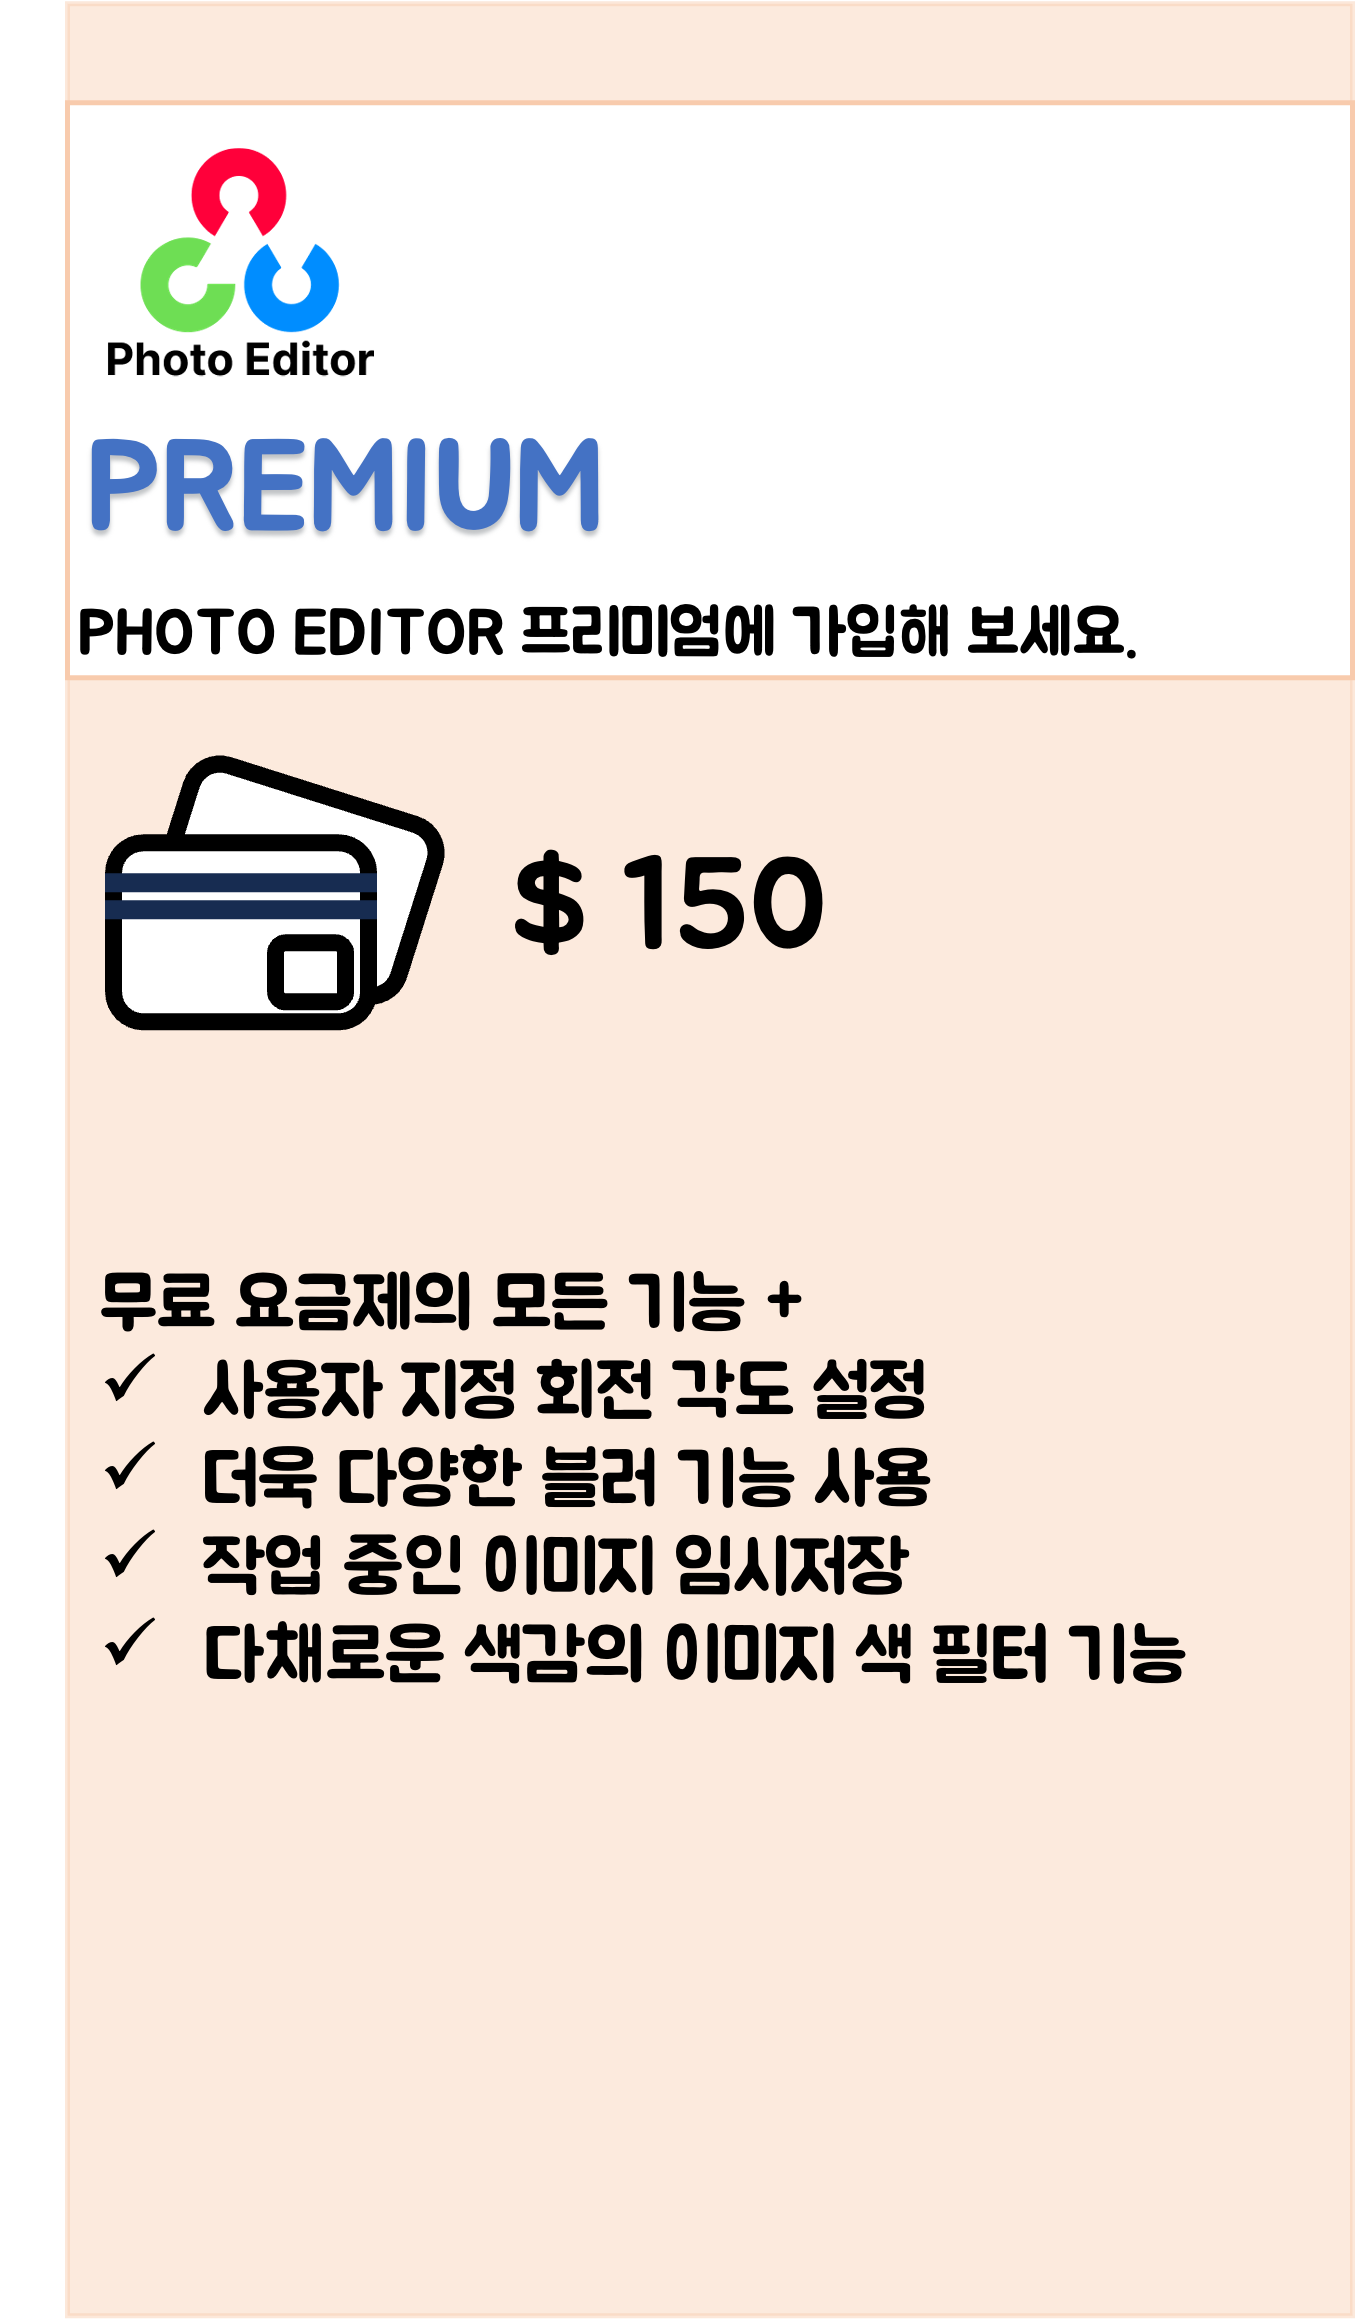
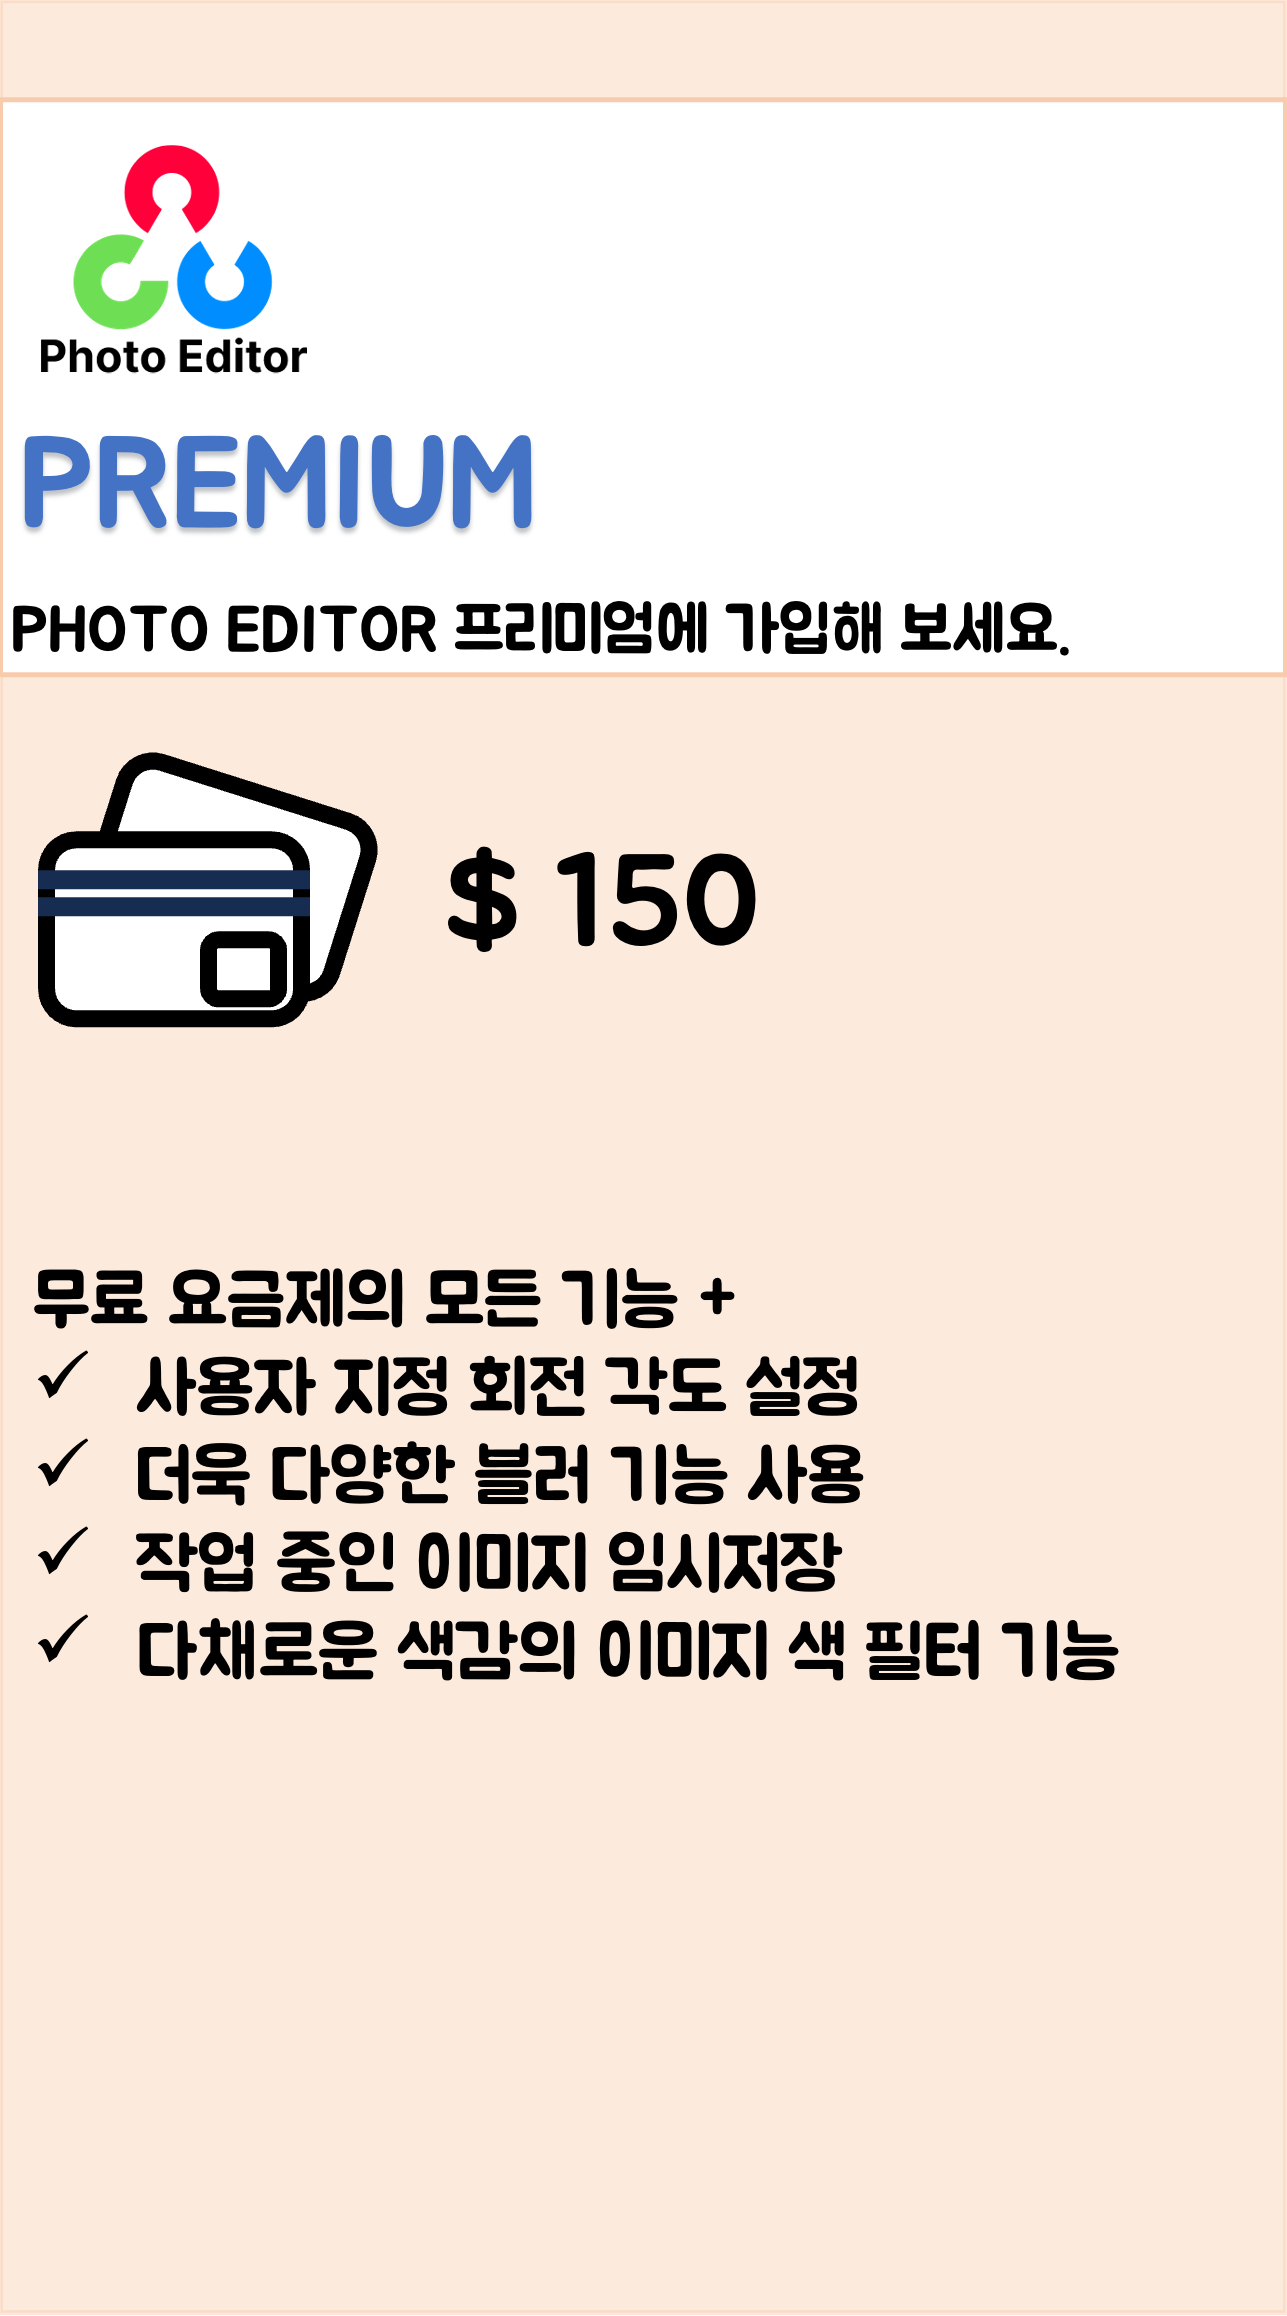
디자인 수정

diff --git a/photoeditor.py b/photoeditor.py
@@ -86,15 +86,19 @@ def photoeditormain(id="admin", name="관리자", version="Premium"):
         # 사용자 정의 대화상자 생성
         dialog = tk.Toplevel(win_main)
         dialog.title("Premium")
+        dialog.resizable(False, False)
 
         # 윈도우의 가로 길이와 세로 길이 구하기
-        dialog_width = 300
-        dialog_height = 400
+        dialog_width = 280
+        dialog_height = 450
 
         # 윈도우를 화면 중앙에 위치시키기
         x = (screen_width - dialog_width) // 2
         y = (screen_height - dialog_height) // 2
         dialog.geometry(f"{dialog_width}x{dialog_height}+{x}+{y}")
+
+        premium_img = ImageTk.PhotoImage(resize_image(Image.open("icon/premium.png"), 500))
+        tk.Label(dialog, image=premium_img).place(x=0, y=0)
 
         # 버튼1
         def command1():
@@ -107,13 +111,8 @@ def photoeditormain(id="admin", name="관리자", version="Premium"):
             messagebox.showinfo("결제 완료", response.decode())
             dialog.destroy()
 
-        tk.Button(dialog, text="결제", command=command1).place(x=100, y=260)
-
-        # 버튼2
-        def command2():
-            dialog.destroy()
-
-        tk.Button(dialog, text="취소", command=command2).place(x=150, y=260)
+        pay_img = ImageTk.PhotoImage(resize_image(Image.open("icon/payment.png"), 220))
+        tk.Button(dialog, image=pay_img, command=command1).place(x=30, y=380)
 
         # 대화상자를 modal로 설정하여 다른 창을 클릭할 수 없게 함
         dialog.transient(win_main)
@@ -149,6 +148,8 @@ def photoeditormain(id="admin", name="관리자", version="Premium"):
 
         # client_socket.sendto('save'.encode(), (HOST, PORT))
         # client_socket.sendto(base64_encoded_image.encode(), (HOST, PORT))
+
+        temp_time['text'] = kst_time
 
         temp_image = ImageTk.PhotoImage(resize_image(image_captured, 100))
         canvas_temp.create_image(0, 0, anchor="nw", image=temp_image)
@@ -533,13 +534,6 @@ def photoeditormain(id="admin", name="관리자", version="Premium"):
             image = Image.fromarray(image)
             update_image(image)
 
-        canvas.delete("rectangle")
-        canvas.unbind("<Motion>")
-        canvas.unbind("<B1-Motion>")
-        canvas.unbind("<ButtonPress-1>")
-        canvas.unbind("<ButtonRelease-1>")
-        cursor = 0  # 마우스 커서 모양을 원래대로 복구
-        check_cursor_position(None)
         redo_history.clear()
         update_btn_state()
 
@@ -694,13 +688,6 @@ def photoeditormain(id="admin", name="관리자", version="Premium"):
             image = Image.fromarray(N_selected_region)
             update_image(image)
 
-        canvas.delete("rectangle")
-        canvas.unbind("<Motion>")
-        canvas.unbind("<B1-Motion>")
-        canvas.unbind("<ButtonPress-1>")
-        canvas.unbind("<ButtonRelease-1>")
-        cursor = 0  # 마우스 커서 모양을 원래대로 복구
-        check_cursor_position(None)
         redo_history.clear()
         update_btn_state()
 
@@ -802,29 +789,33 @@ def photoeditormain(id="admin", name="관리자", version="Premium"):
 
     create_title(button2_frame, "Add & Crop", 133)
     create_line(button2_frame, 157)
-    create_button(button2_frame, "icon//icon_add.png", 90, undo, 125, 165)
-    create_button(button2_frame, "icon//icon_crop.png", 90, image_crop, 225, 165)
+    create_button(button2_frame, "icon//icon_add.png", 90, undo, 25, 165)
+    create_button(button2_frame, "icon//icon_crop.png", 90, image_crop, 125, 165)
 
     create_title(button2_frame, "Filter", 263)
     create_line(button2_frame, 287)
-    create_button(button2_frame, "icon//icon_gray.png", 150, grayscale, 25, 295)
-    create_button(button2_frame, "icon//icon_cannyedge.png", 150, canny_edge, 180, 295)
+    create_button(button2_frame, "icon//icon_gray.png", 250, grayscale, 25, 295)
+    create_button(button2_frame, "icon//icon_cannyedge.png", 250, canny_edge, 25, 375)
 
-    create_title(button2_frame, "Color Palette", 360)
-    create_line(button2_frame, 384)
-    create_button(button2_frame, "icon//icon_red.png", 40, red_filter, 25, 395)
-    create_button(button2_frame, "icon//icon_orange.png", 40, orange_filter, 75, 395)
-    create_button(button2_frame, "icon//icon_yellow.png", 40, yellow_filter, 125, 395)
-    create_button(button2_frame, "icon//icon_green.png", 40, green_filter, 175, 395)
-    create_button(button2_frame, "icon//icon_blue.png", 40, blue_filter, 225, 395)
-    create_button(button2_frame, "icon//icon_purple.png", 40, purple_filter, 275, 395)
+    create_title(button2_frame, "Color Palette", 400)
+    create_line(button2_frame, 424)
+    create_button(button2_frame, "icon//icon_red.png", 40, red_filter, 25, 435)
+    create_button(button2_frame, "icon//icon_orange.png", 40, orange_filter, 75, 435)
+    create_button(button2_frame, "icon//icon_yellow.png", 40, yellow_filter, 125, 435)
+    create_button(button2_frame, "icon//icon_green.png", 40, green_filter, 175, 435)
+    create_button(button2_frame, "icon//icon_blue.png", 40, blue_filter, 225, 435)
+    create_button(button2_frame, "icon//icon_purple.png", 40, purple_filter, 275, 435)
 
-    create_title(button2_frame, "TempSave", 513)
-    create_line(button2_frame, 537)
+    create_title(button2_frame, "TempSave", 553)
+    create_line(button2_frame, 577)
     canvas_temp = tk.Canvas(button2_frame, width=100, height=100, bg="white", borderwidth=1, relief="solid")
-    canvas_temp.place(x=110, y=545)
-    create_button(button2_frame, "icon//icon_save.png", 90, temp_save, 75, 655)
-    create_button(button2_frame, "icon//icon_load.png", 90, temp_load, 175, 655)
+    canvas_temp.place(x=25, y=585)
+    create_button(button2_frame, "icon//icon_save.png", 80, temp_save, 140, 585)
+    create_button(button2_frame, "icon//icon_load.png", 80, temp_load, 230, 585)
+
+    font_time = tkinter.font.Font(family="맑은 고딕", size=12)
+    temp_time = tk.Label(button2_frame, text="", background="white", font=font_time)
+    temp_time.place(x=145, y=630)
 
     # 윈도우 종료 시 on_closing 함수 실행
     win_main.protocol("WM_DELETE_WINDOW", on_closing)
